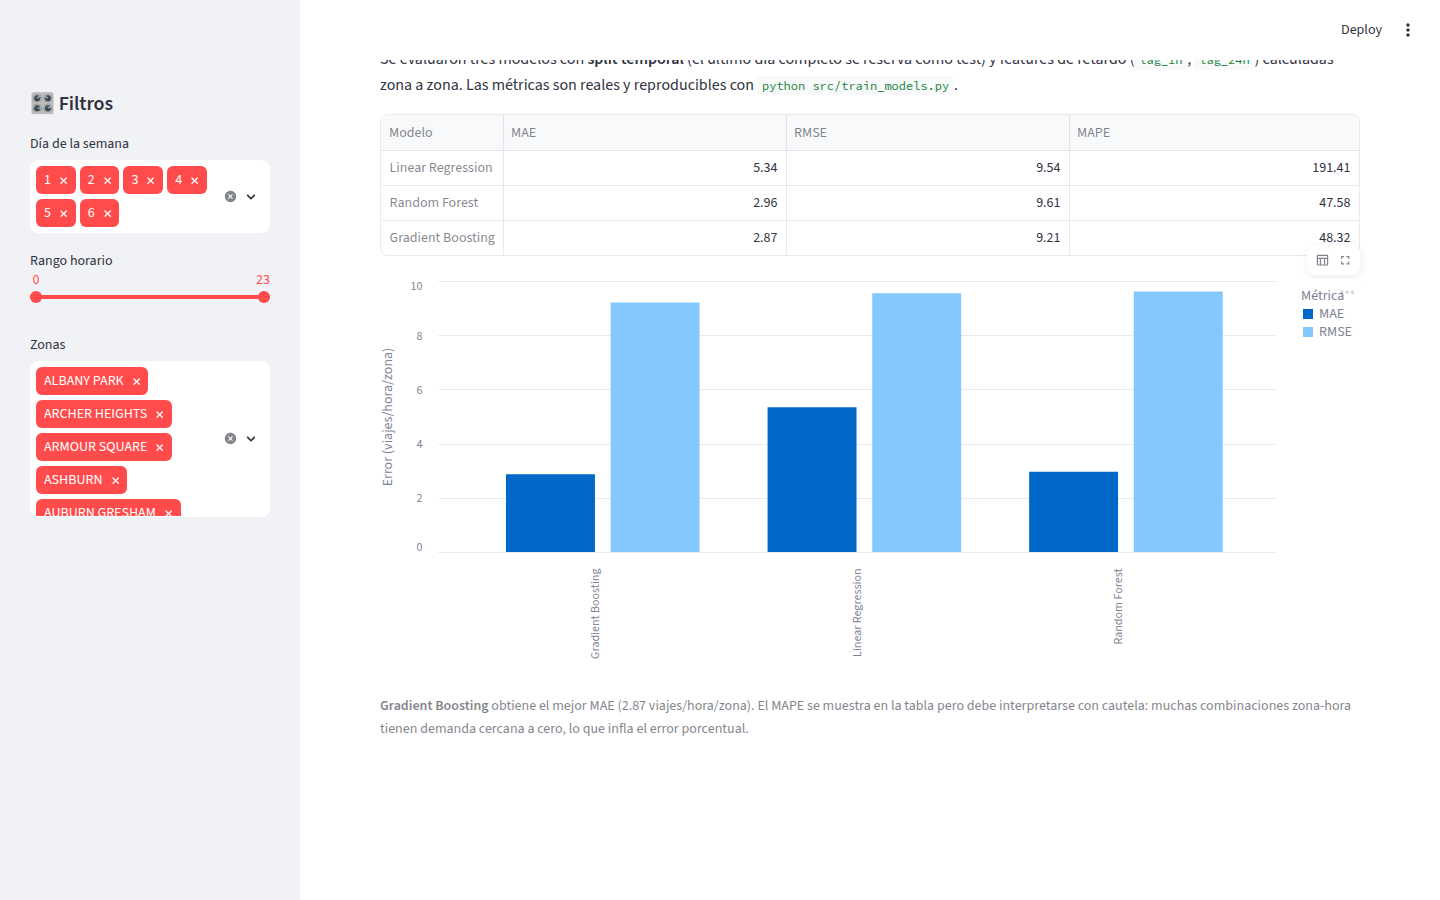
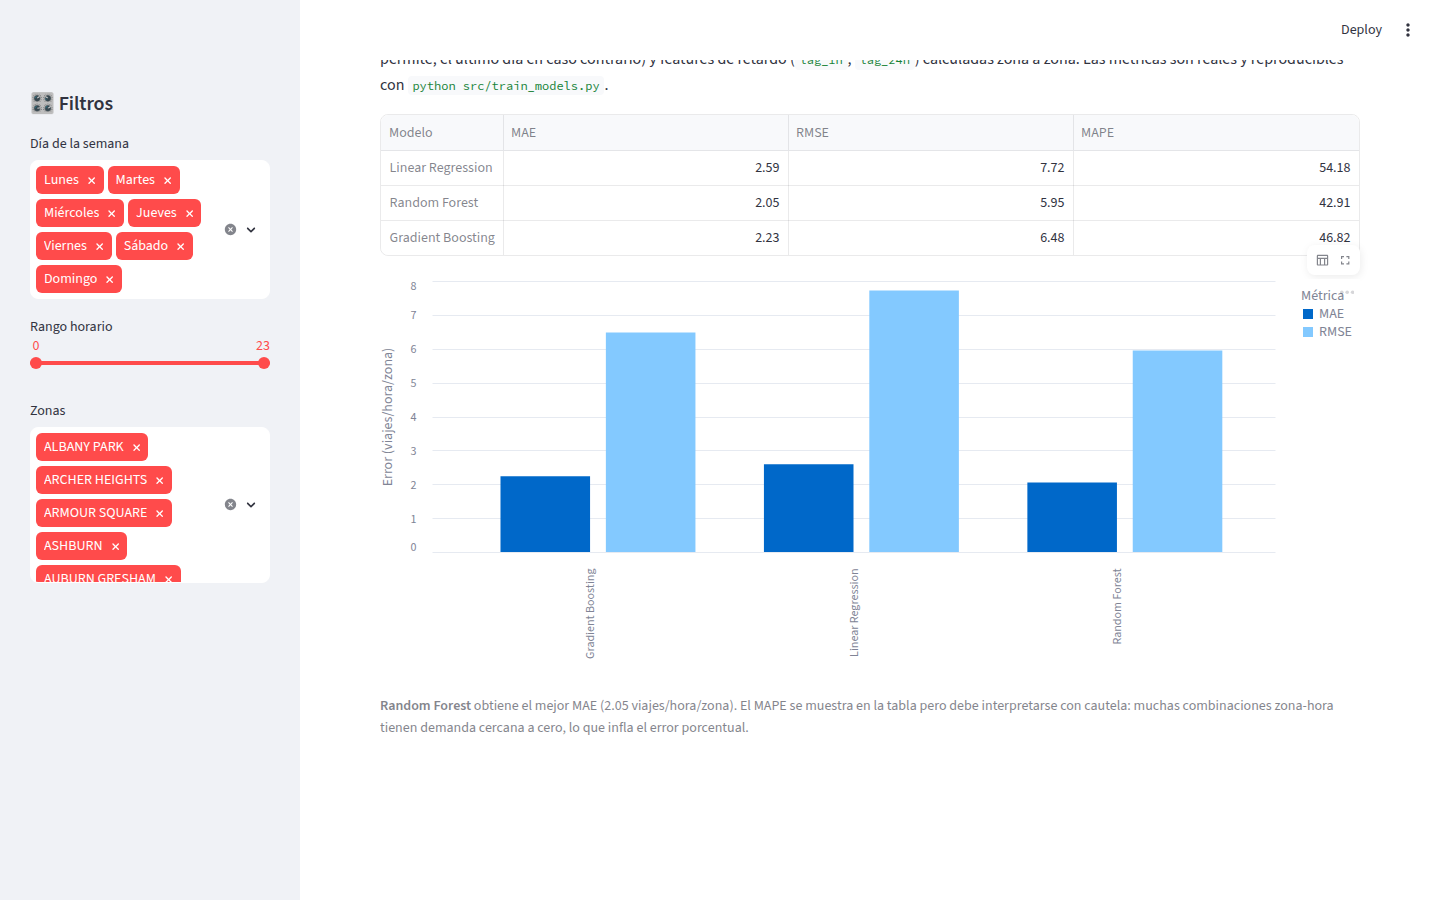
Actualiza métricas, capturas y README con el dataset completo de 90 días
- data/model_metrics.csv regenerado con src/train_models.py sobre el
  dataset real de 90 días (166.320 filas) con variables de tráfico:
  Random Forest pasa a ser el mejor modelo (MAE 2.05), no Gradient
  Boosting como con la muestra corta anterior
- Capturas del dashboard regeneradas reflejando los datos reales: los
  7 días de la semana con datos, demanda de fin de semana más baja,
  Near North Side/O'Hare/Loop como zonas top, y la nueva sección de
  Variables de tráfico (V3) con sus dos gráficos
- README: enlace de demo unificado a la URL vigente, tabla de
  resultados actualizada, nota de datos reescrita (ya no es una
  muestra parcial sino el dataset completo del pipeline) y menciones
  de hallazgos espaciales corregidas (O'Hare es el 2º polo, no un
  tercero aislado)

diff --git a/README.md b/README.md
@@ -14,6 +14,8 @@ Proyecto **end-to-end de Data Science y Big Data**: análisis y predicción espa
 
 ![Dashboard overview](assets/dashboard_overview.png)
 
+El dashboard opera sobre el dataset analítico completo generado por el pipeline: **90 días** (enero–marzo de 2023) × 24 horas × 77 zonas de Chicago, con variables temporales, espaciales, climáticas, de festivos y de tráfico.
+
 ---
 
 ## 🎯 El problema
@@ -74,18 +76,18 @@ El pipeline completo está documentado y comentado en [`notebooks/ride_hailing_d
 
 ## 🤖 Resultados de los modelos
 
-Métricas sobre la muestra incluida en el repo (test = último día completo, split temporal). Reproducibles con `python src/train_models.py`:
+Métricas sobre el dataset completo de 90 días (test = última semana natural completa, 25–31 de marzo de 2023, split temporal). Reproducibles con `python src/train_models.py`:
 
 | Modelo | MAE (con lags) | RMSE (con lags) | MAE (sin lags) |
 |---|---:|---:|---:|
-| Linear Regression | 5.34 | 9.55 | 11.18 |
-| Random Forest | 2.96 | 9.61 | 3.25 |
-| **Gradient Boosting** | **2.87** | **9.21** | 5.38 |
+| Linear Regression | 2.59 | 7.72 | 12.39 |
+| **Random Forest** | **2.05** | **5.95** | 2.36 |
+| Gradient Boosting | 2.23 | 6.48 | 5.45 |
 
 **Lecturas clave:**
 
-- **Gradient Boosting** es el mejor modelo en MAE y RMSE.
-- Las **features de lag reducen el error de forma consistente** (en Linear Regression, a menos de la mitad): la demanda pasada es el mejor predictor de la demanda futura.
+- **Random Forest** es el mejor modelo en MAE y RMSE sobre el dataset completo.
+- Las **features de lag reducen el error de forma drástica** en Linear Regression y Gradient Boosting (hasta 5 veces menos error); en Random Forest el margen es menor porque el modelo ya captura buena parte del patrón horario a través del resto de variables.
 - El MAPE debe interpretarse con cautela en este problema: muchas combinaciones zona-hora tienen demanda cercana a cero, lo que infla el error porcentual.
 
 ![Comparación de modelos](assets/dashboard_modelos.png)
@@ -94,17 +96,21 @@ Métricas sobre la muestra incluida en el repo (test = último día completo, sp
 
 ## 📊 El dashboard
 
-**[Pruébalo en vivo →](https://ridehailing-demand-dashboard-k56fqvuqzpxmyxuijbok7q.streamlit.app/)**
+**[Pruébalo en vivo →](https://ridehailing-demand-dashboard-8tlsffpqh7rnwgowc95ljh.streamlit.app/)**
 
 Siete pestañas: resumen del proyecto, exploración temporal, análisis espacial, impacto de variables externas, comparación de modelos, estudio de feature engineering y conclusiones. Todas las vistas temporales muestran los días de la semana con su nombre, ordenados de lunes a domingo.
 
-**Patrones temporales** — heatmap día × hora con picos de commuting claramente visibles:
+**Patrones temporales** — heatmap día × hora con picos de commuting claramente visibles entre semana y una demanda notablemente menor el fin de semana:
 
 ![Exploración temporal](assets/dashboard_exploracion.png)
 
-**Concentración espacial** — el Loop y Near West Side dominan la demanda; O'Hare actúa como polo aislado (la app incluye además un mapa coroplético interactivo por *community area*):
+**Concentración espacial** — Near North Side y el Loop dominan la demanda; O'Hare aparece como el segundo polo en volumen, aislado del clúster urbano central (la app incluye además un mapa coroplético interactivo por *community area*):
 
 ![Análisis espacial](assets/dashboard_espacial.png)
+
+**Variables de tráfico (V3)** — la demanda es casi 3 veces mayor en franjas zona-hora con siniestros registrados, y la congestión (velocidad media) cae justo cuando sube la demanda en hora punta:
+
+![Variables de tráfico](assets/dashboard_trafico.png)
 
 ---
 
@@ -137,7 +143,7 @@ El notebook del pipeline completo (`notebooks/`) está pensado para **Google Col
 ├── notebooks/
 │   └── ride_hailing_demand_pipeline.ipynb   # Pipeline completo (5 capas, PySpark)
 ├── data/
-│   ├── final_dataset.csv     # Muestra analítica zona×hora (6 días, 77 zonas)
+│   ├── final_dataset.csv     # Dataset analítico zona×hora (90 días, 77 zonas)
 │   ├── chicago_geo.json      # GeoJSON de community areas de Chicago
 │   └── model_metrics.csv     # Métricas generadas por src/train_models.py
 ├── assets/                   # Capturas del dashboard
@@ -145,7 +151,7 @@ El notebook del pipeline completo (`notebooks/`) está pensado para **Google Col
 └── LICENSE
 ```
 
-> **Nota sobre los datos:** el repo incluye una muestra compacta (6 días × 24 h × 77 zonas = 11.088 filas, del domingo 26 al viernes 31 de marzo de 2023) exportada por el pipeline Spark para que el dashboard y el entrenamiento sean reproducibles sin infraestructura. Al no incluir sábado, esa categoría aparece sin datos en las vistas por día de la semana. El notebook procesa el periodo completo (~90 días, semanas enteras) con validación rolling-window e integra además variables de tráfico (siniestros y congestión).
+> **Nota sobre los datos:** el repo incluye el dataset analítico completo generado por el pipeline (90 días × 24 h × 77 zonas = 166.320 filas, enero–marzo de 2023), con variables temporales, espaciales, climáticas, de festivos y de tráfico (siniestros y congestión). Es exactamente el dataset que produce el notebook en su capa `curated/`, exportado a CSV para que el dashboard y el entrenamiento sean reproducibles sin necesidad de una sesión de Spark.
 
 ---
 
